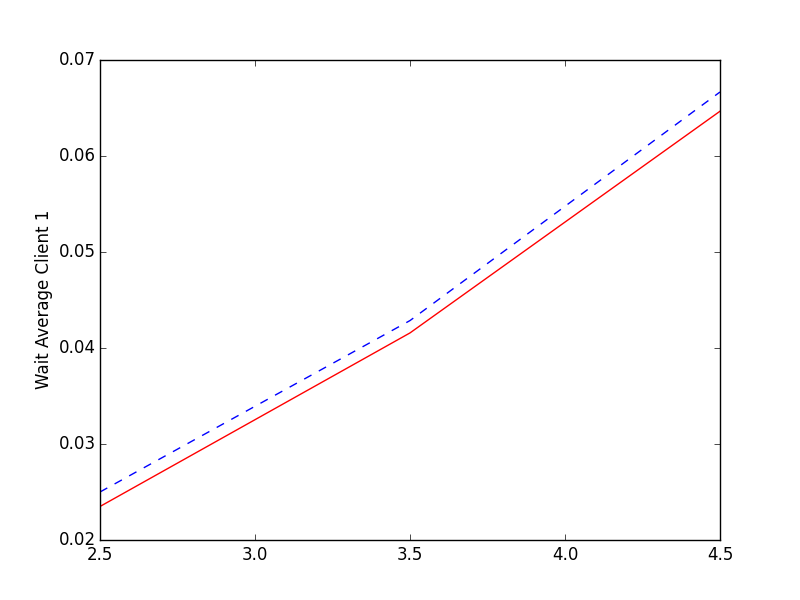
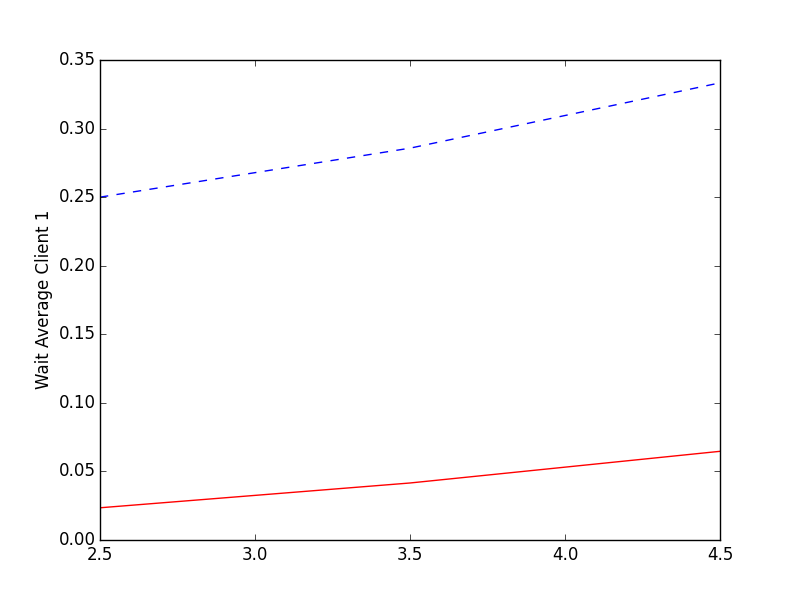
Alterando o plot para plotar com legenda e todas as questoes

diff --git a/plot.py b/plot.py
@@ -1,7 +1,6 @@
 from matplotlib import pyplot as plt
 import numpy as np
 from main import *
-from FCFS import FCFS
 import os
 import sys
 
@@ -12,39 +11,109 @@ def main():
         return
 
     folder = sys.argv[1]
-    lambda1_lambda2 = []
-    pending_work_average_simulated = []
-    pending_work_average_analytic = []
+    #fcfs = FCFS()
+    queue = "preemptive"
 
-    print "ploting files from", folder
-    for arrivals in sorted(os.listdir(folder)):
-        print "     ", arrivals, "selected"
-        arrivals_file = open(folder + arrivals)
+    for i in range(1,10):
+        lambda1_lambda2 = []
+        simulated = []
+        simulated2 = []
+        analytic = []
 
-        print "     running simulation"
-        #print arrivals_file
+        print "QUESTAO", i
 
-        fcfs = FCFS()
-        simulation_results = run(fcfs, arrivals_file)
-        pending_work_average_simulated.append(simulation_results['pending_work_average'])
+        print "ploting files from", folder
 
-        print "     calculating analytical values"
-        analytical_values = generateAnalyticalValues('FCFS', arrivals)
-        params = analytical_values[0]
-        analytical_results = analytical_values[1]
+        for arrivals in sorted(os.listdir(folder)):
+            print "     ", arrivals, "selected"
+            arrivals_file = open(folder + arrivals)
 
-        lambda1_lambda2.append(float(params['lambda1'])+float(params['lambda2']))
-        pending_work_average_analytic.append(analytical_results['pending_work_average'])
+            preemptive = PreemptiveFCFS()
 
-    lambda1_lambda2 = np.array(lambda1_lambda2)
-    pending_work_average_simulated = np.array(pending_work_average_simulated)
-    pending_work_average_analytic = np.array(pending_work_average_analytic)
+            print "     running simulation"
+            simulation_results = run(preemptive, arrivals_file)
 
-    print "     generating plot"
-    plt.plot(lambda1_lambda2, pending_work_average_simulated, color='r')
-    plt.plot(lambda1_lambda2, pending_work_average_analytic, color='b', linestyle='--')
-    plt.savefig('plots/'+folder.split('/')[1]+'.png')
-    plt.close()
+            print "     calculating analytical values"
+            analytical_values = generateAnalyticalValues('PreemptiveFCFS', arrivals)
+
+            params = analytical_values[0]
+            analytical_results = analytical_values[1]
+
+            if (i == 1):
+                plt.ylabel('Pending Work Average')
+                simulated.append(simulation_results['pending_work_average'])
+                analytic.append(analytical_results['pending_work_average'])
+
+            elif (i == 2):
+
+                plt.ylabel('Pending Work Average')
+                simulated.append(simulation_results['pending_work_average'])
+                analytic.append(analytical_results['pending_work_average_q2'])
+
+
+            elif (i == 3):
+                plt.ylabel('Pending Work Average')
+                simulated.append(simulation_results['pending_work_average'])
+                analytic.append(analytical_results['pending_work_average_q3'])
+
+            elif (i == 4):
+                plt.ylabel('Time Average Client 2')
+                simulated.append(simulation_results['time_average'][2])
+                analytic.append(analytical_results['time_average_q4'][2])
+
+            elif (i == 5):
+                plt.ylabel('Wait Average Client 2')
+                simulated.append(simulation_results['wait_average'][2])
+                analytic.append(analytical_results['wait_average_q5'][2])
+
+            elif (i == 6):
+                simulated.append(simulation_results['wait_average'][1])
+                simulated2.append(simulation_results['wait_average'][2])
+
+                analytic.append(analytical_results['pending_work_average'])
+
+            elif (i == 7):
+                plt.ylabel('Time Average')
+                simulated.append(simulation_results['time_average']['all'])
+                analytic.append(analytical_results['time_average_q7']['all'])
+            elif (i == 8):
+                plt.ylabel('Wait Average Client 1')
+                simulated.append(simulation_results['wait_average'][1])
+                analytic.append(analytical_results['wait_average_q8'][1])
+            elif (i == 9):
+                plt.ylabel('Wait Average Client 1')
+                simulated.append(simulation_results['wait_average'][1])
+                analytic.append(analytical_results['wait_average_q9'][1])
+            elif (i == 10):
+                pass
+
+            lambda1_lambda2.append(float(params['lambda1'])+float(params['lambda2']))
+
+        lambda1_lambda2 = np.array(lambda1_lambda2)
+        simulated = np.array(simulated)
+        analytic = np.array(analytic)
+        simulated2 = np.array(simulated2)
+
+        print "     generating plot"
+
+        if i != 6:
+            plt.plot(lambda1_lambda2, simulated, color='r')
+            plt.plot(lambda1_lambda2, analytic, color='b', linestyle='--')
+
+        else:
+            f, axis = plt.subplots(2, sharex=True)
+
+            axis[0].plot(lambda1_lambda2, simulated, color='r')
+            axis[0].plot(lambda1_lambda2, analytic, color='b', linestyle='--')
+            axis[0].set_xlabel(r'$\lambda$')
+            axis[0].set_ylabel('Wait Average Client 1')
+            axis[1].plot(lambda1_lambda2, simulated2, color='r')
+            axis[1].plot(lambda1_lambda2, analytic, color='b', linestyle='--')
+            axis[1].set_xlabel(r'$\lambda$')
+            axis[1].set_ylabel('Wait Average Client 2')
+
+        plt.savefig('plots/' + str(i) + '-' + queue + '-' + folder.split('/')[1]+'.png')
+        plt.close()
 
 if __name__ == "__main__":
     main()

diff --git a/main.py b/main.py
@@ -33,6 +33,16 @@ def generateAnalyticalValues(queue_type, arrivals_file):
     pendingWorkAverage = 0
     utilisation = {}
 
+    pendingWorkAverage_q2 = 0
+    pendingWorkAverage_q3 = 0
+    timeAverage_q4 = {}
+    waitAverage_q5 = {}
+    time_average_q7 = {}
+    waitAverage_q8 = {}
+    waitAverage_q9 = {}
+
+
+
     if queue_type == 'FCFS':
         workAverage['all'] = (1/muTotal)
         utilisation['all'] = lambdTotal / muTotal
@@ -103,8 +113,16 @@ def generateAnalyticalValues(queue_type, arrivals_file):
         clientsAverage[2] = lambd2 * timeAverage[2]
         clientsAverage['all'] = clientsAverage[1] + clientsAverage[2]
 
+    pendingWorkAverage_q2 = (residualAverage[1]*utilisation[1] + residualAverage[2]*utilisation[2] + utilisation['all']*residualAverage['all'])/(1 - utilisation['all'])
+    pendingWorkAverage_q3 = queueClientsAverage[1]* workAverage[1] +  queueClientsAverage[2]* workAverage[2] + workAverage[1]*utilisation[1] + workAverage[2]*utilisation[2]
+    timeAverage_q4[2] = (workAverage[2] + pendingWorkAverage)/(1 - utilisation[1])
+    waitAverage_q5[2] = pendingWorkAverage/(1 - utilisation[1])
+    time_average_q7['all'] = workAverage['all']/ (1 - utilisation['all'])
+    waitAverage_q8[1] = workAverage[1]/(1 - utilisation[1])
+    waitAverage_q9[1] = (utilisation[1]*residualAverage[1])/(1-utilisation[1])
+
     params = {'lambda1' : arrivalValues[LAMBD1], 'lambda2' : arrivalValues[LAMBD2]}
-    analytical_results = {'clientsAverage' : clientsAverage, 'queue_clients_average' : queueClientsAverage, 'time_average' : timeAverage, 'work_average' : workAverage, 'wait_average' :  waitAverage, 'residual_average' : residualAverage, 'pending_work_average' : pendingWorkAverage, 'utilisation' : utilisation}
+    analytical_results = {'clientsAverage' : clientsAverage, 'queue_clients_average' : queueClientsAverage, 'time_average' : timeAverage, 'time_average_q4' : timeAverage_q4, 'time_average_q7' : time_average_q7, 'work_average' : workAverage, 'wait_average' :  waitAverage, 'wait_average_q5' :  waitAverage_q5, 'wait_average_q8' :  waitAverage_q8, 'wait_average_q9' :  waitAverage_q9, 'residual_average' : residualAverage, 'pending_work_average' : pendingWorkAverage, 'pending_work_average_q2' : pendingWorkAverage_q2, 'pending_work_average_q3' : pendingWorkAverage_q3, 'utilisation' : utilisation}
 
     return (params, analytical_results)
 
